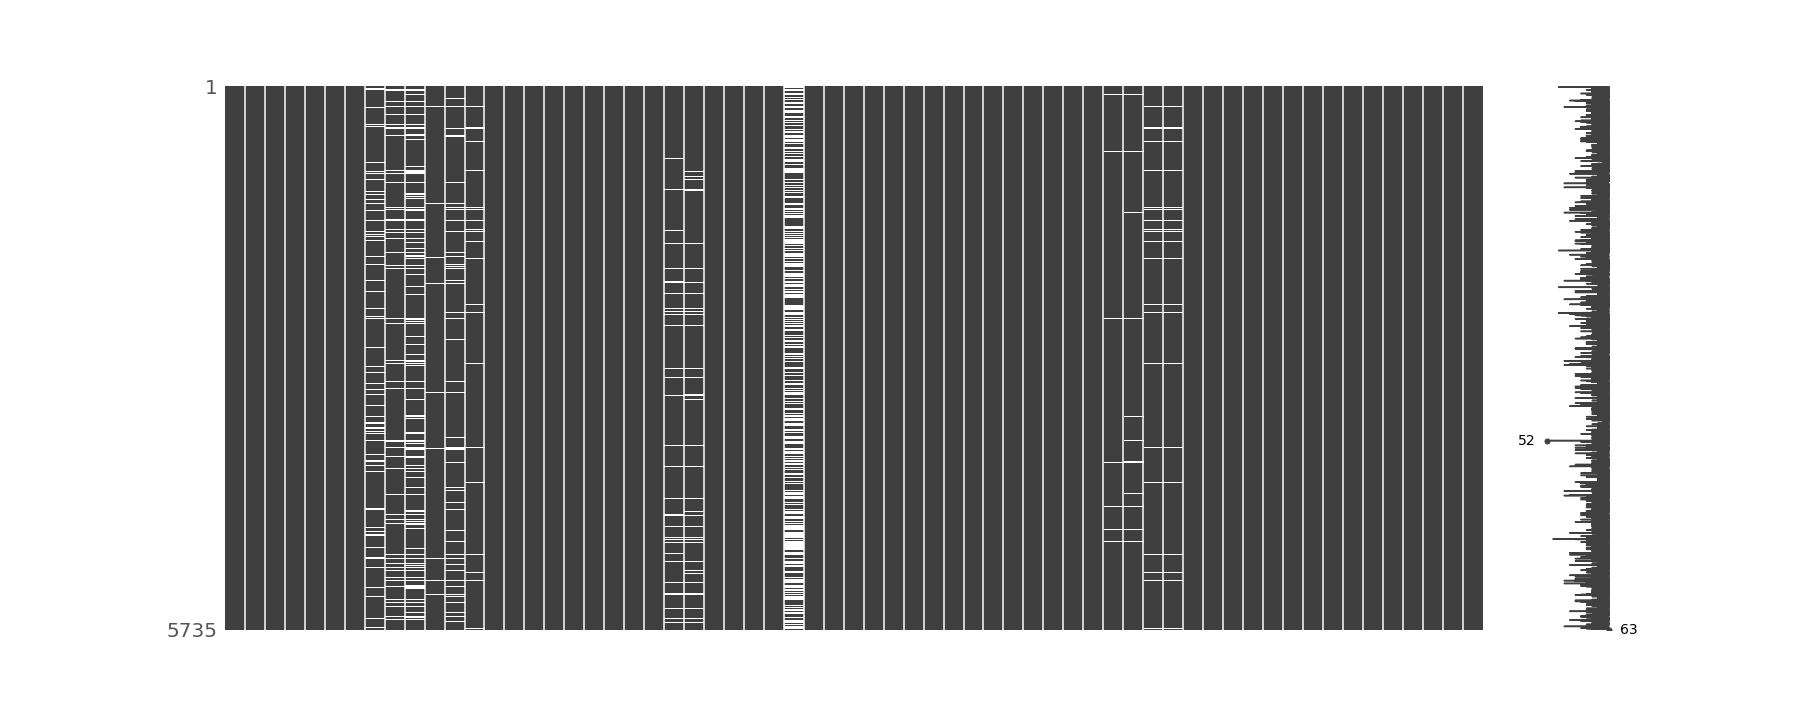
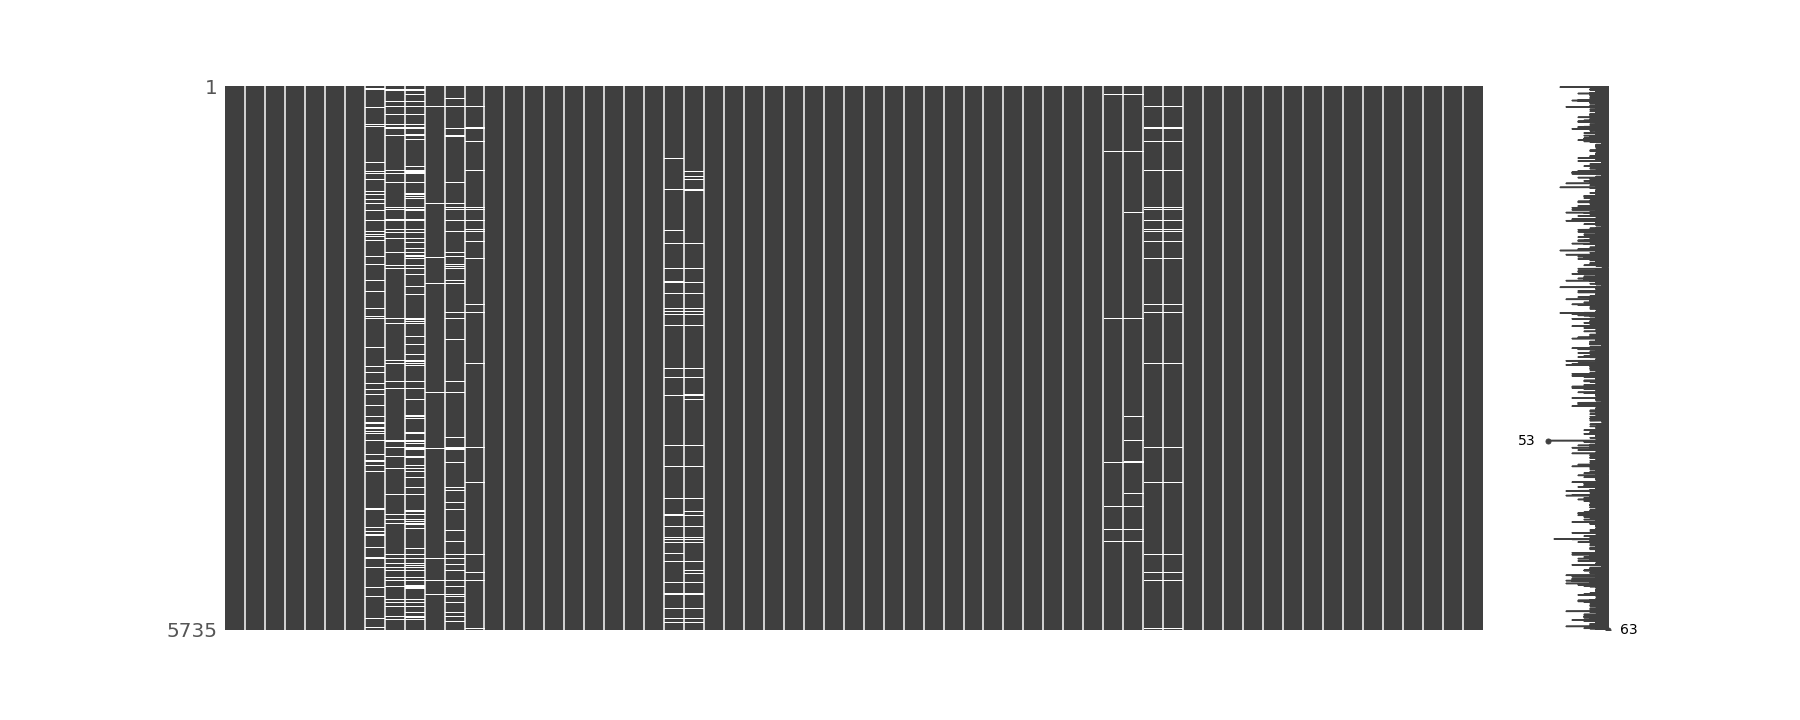
Update html with features and selector options, update README with data cleaning information

Changed region(s): [[0.4356, 0.1222, 0.4667, 0.8861]]

diff --git a/cardio.html b/cardio.html
@@ -18,19 +18,45 @@
   <div>
     <p>Age:</p><input id="age">
     <div>
-    <label for="gender">Choose your gender:</label>
-    <select id="gender">
-      <option value="1">Male</option>
-      <option value="0">Female</option>
-    </select>
+      <label for="gender">Choose your gender:</label>
+      <input type="radio" id="male" name="gender" value="1">
+      <label for="male">Male</label>
+      <input type="radio" id="female" name="gender" value="0">
+      <label for="female">Female</label><br>
     </div>
+    <div>
+      <label for="race">Choose your race:</label>
+      <select id="race">
+      <option value="1">Mexican American</option>
+      <option value="2">Other Hispanic</option>
+      <option value="3">Non-Hispanic White</option>
+      <option value="4">Non-Hispanic Black</option>
+      <option value="6">Non-Hispanic Asian</option>
+      <option value="7">Other/Multi-Racial</option>
+      </select>
+    </div>  
     <p>Height (in inches):</p><input id="height">
     <p>Weight (in lbs):</p><input id="weight">
+    <p>What is the most you have ever weighed? (in lbs)</p><input id="heaviest">
     <p>Resting Pulse (beats/minute)</p><input id="pulse">
     <p>Number of frozen meals eaten in the last 30 days (estimated):</p><input id="frozen">
-    <p>Has a close relative ever had a heart attack? (Y or N)</p><input id="relative">
-    <p>Do you smoke? (Y or N)</p><input id="smoke">
-    <p>What is the most you have ever weighed?(in lbs)</p><input id="heaviest">
+    <div>
+      <p>Has a close relative ever had a heart attack?</p>
+      <input type="radio" id="yes_heart" name="heart" value="1">
+      <label for="yes_heart">Yes</label><br>
+      <input type="radio" id="no_heart" name="heart" value="0">
+      <label for="no_heart">No</label><br>
+    </div>
+    <div>
+      <p>Do you smoke?</p>
+      <input type="radio" id="yes_smoke" name="smoke" value="1">
+      <label for="yes_smoke">Yes</label><br>
+      <input type="radio" id="no_smoke" name="smoke" value="0">
+      <label for="no_smoke">No</label><br>
+    </div>
+    <p>Have you ever been told by a doctor or other health professional that you had high blood pressure?</p>
+    <p>Have you ever been told by a doctor or health professional to reduce the amount of sodium or salt in your diet?</p>
+    <p>Over the past 30 days, how many hours per day (on average) did you watch TV or videos?</p><input id="tv">
   </div>
   <div>
     <button type="button" id="predict">Predict</button>

diff --git a/README.md b/README.md
@@ -12,11 +12,16 @@ These risks, combined with the ever-increasing cost of healthcare in the U.S., i
 
 ## Data
 
-NHANES (National Health and Nutrition Examination Survey) is a naitonal survey conducted by the CDC every couple of years.  The survey contains over 1,000 variables, asking questions about lifestyle and medical history as well as conducting brief medical examinations and running blood tests.
+NHANES (National Health and Nutrition Examination Survey) is a naitonal survey conducted by the CDC every couple of years.  The survey contains over 1,000 variables spread across dozens of files, asking questions about lifestyle and medical history as well as conducting brief medical examinations and running blood tests.
 The data used in building this model comes from the 2015-2016 survey and can be found at:  
 https://wwwn.cdc.gov/nchs/nhanes/continuousnhanes/default.aspx?BeginYear=2015.
 
-The data has been limited to the adult population who participated in both the questionnaire and examination portions of the survey, resulting in 5,735 individuals.  Of the many variables available for analysis, the list was narrowed to produce 63 features for use in this model.  The elimination process was based first on intuitive relevance to heart disease (e.g. excluding dental health) and second on quality of data (e.g. data with 5,000 missing values).
+There were 16 files used in compiling the data. The graphic below represents the amount of missing data (shown as white space) encountered in the original compilation (9971 observations, 521 features).
+![Missing data before cleaning](img/missing_before.png)
+
+The data has been limited to the adult population who participated in both the questionnaire and examination portions of the survey, resulting in 5,735 individuals.  Of the many variables available for analysis, the list was narrowed to produce 63 features for use in evaluating different models.  The elimination process was based first on intuitive relevance to heart disease (e.g. excluding dental health) and second on quality of data (e.g. features with 90% of values missing). After initial data cleaning based on survey response coding and skip patterns, the amount of missing data decreased significantly (see below).
+
+![Missing data after cleaning](img/missing_after.png)
 
 Individuals in the dataset have been labeled as high-risk for cardiovascular disease based on either:
 
